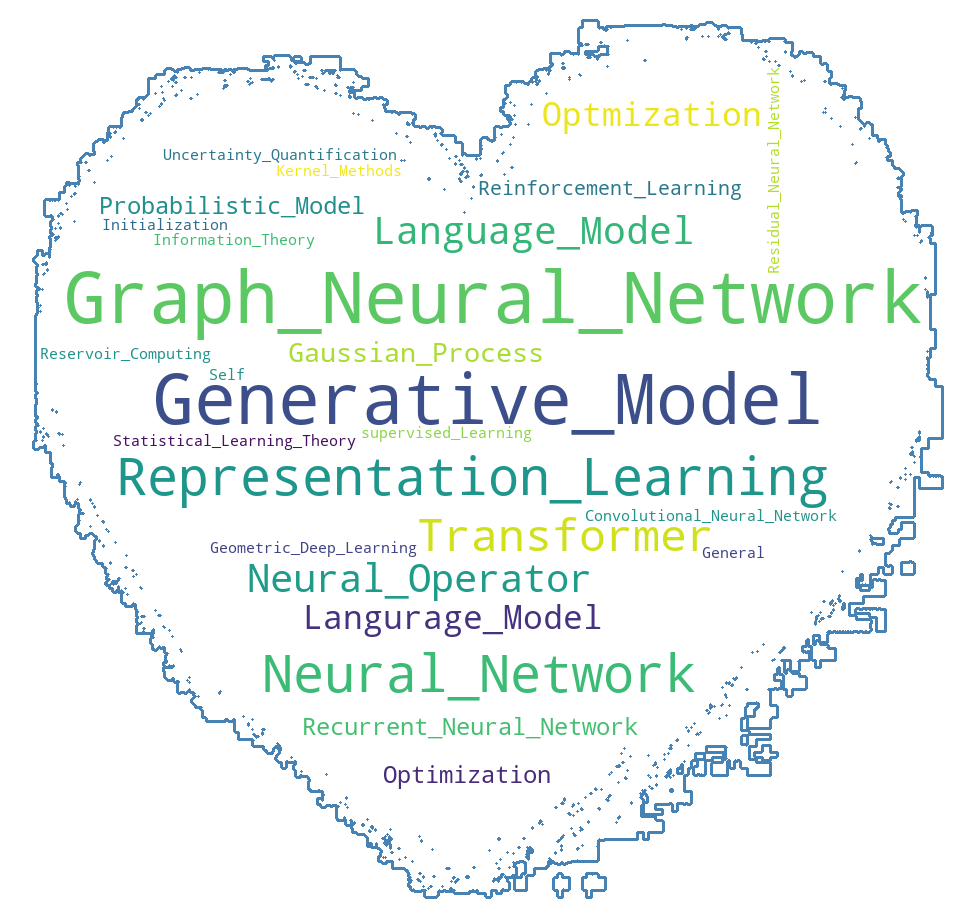
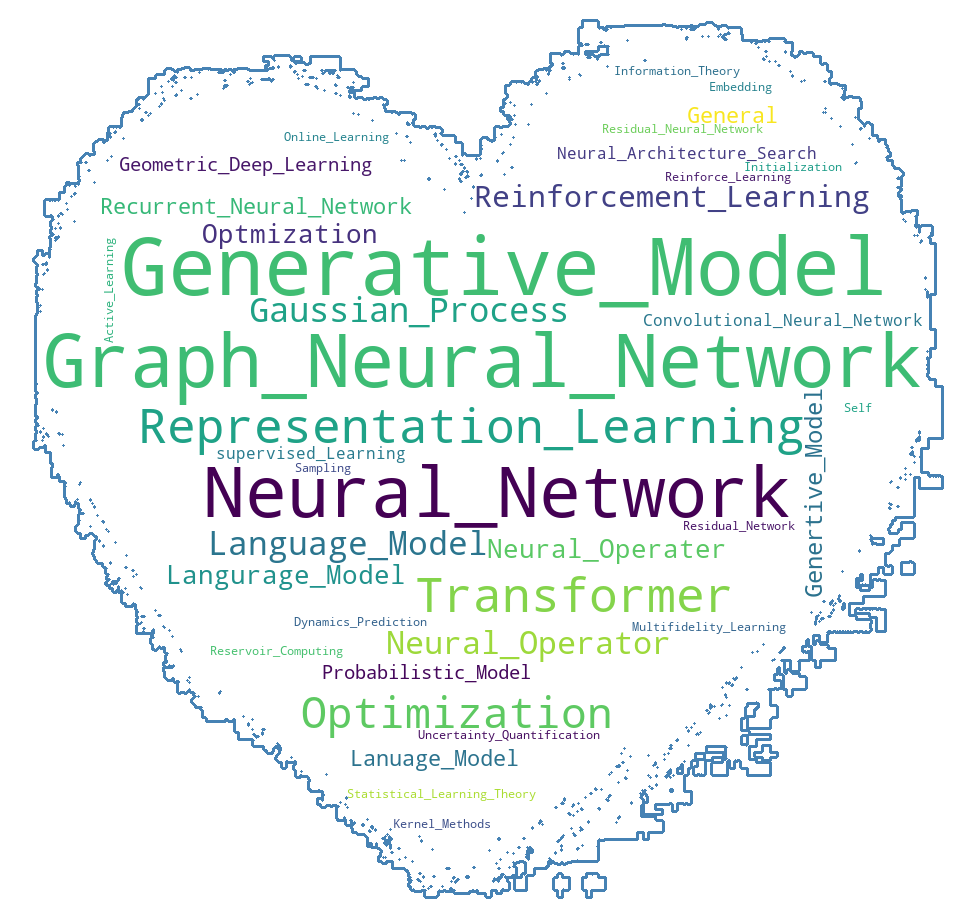
update word cloud

Changed region(s): [[0.0303, 0.0613, 0.9687, 0.919], [0.666, 0.0613, 0.6962, 0.0919]]

diff --git a/src/word_cloud.py b/src/word_cloud.py
@@ -10,13 +10,19 @@ from wordcloud import WordCloud, STOPWORDS
 d = path.dirname(__file__) if "__file__" in locals() else os.getcwd()
 
 # Read the whole text.
-lists = ['../icml/icml_2024.csv', '../neurips/neurips_2023.csv']
+venues = ['icml', 'neurips']
+lists = []
+for i in venues:
+  lists.extend([os.path.join(f'../{i}',j) for j in os.listdir(f'../{i}')])
 text_science = []
 text_ml = []
 for i in lists:
   data = pd.read_csv(i,dtype=str)
   text_science.extend(list(data['Application']))
   text_ml.extend(list(data['MLTech']))
+
+text_science = [x for x in text_science if str(x) != 'nan']
+text_ml = [x for x in text_ml if str(x) != 'nan']
 
 text_science=" ".join(text_science)
 text_ml=" ".join(text_ml)
